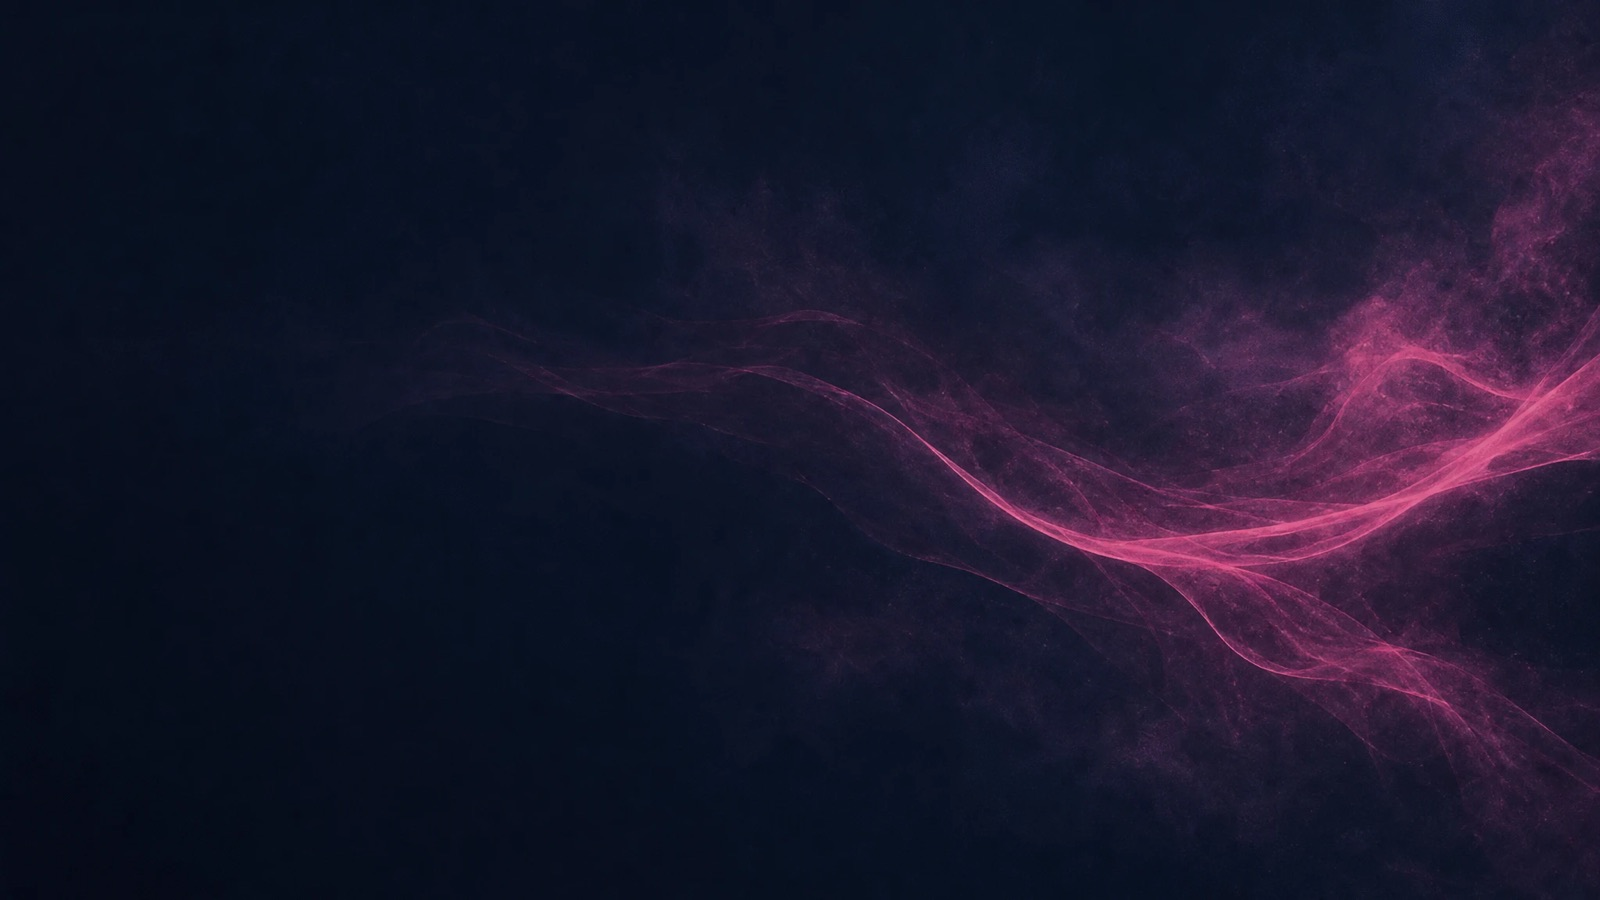
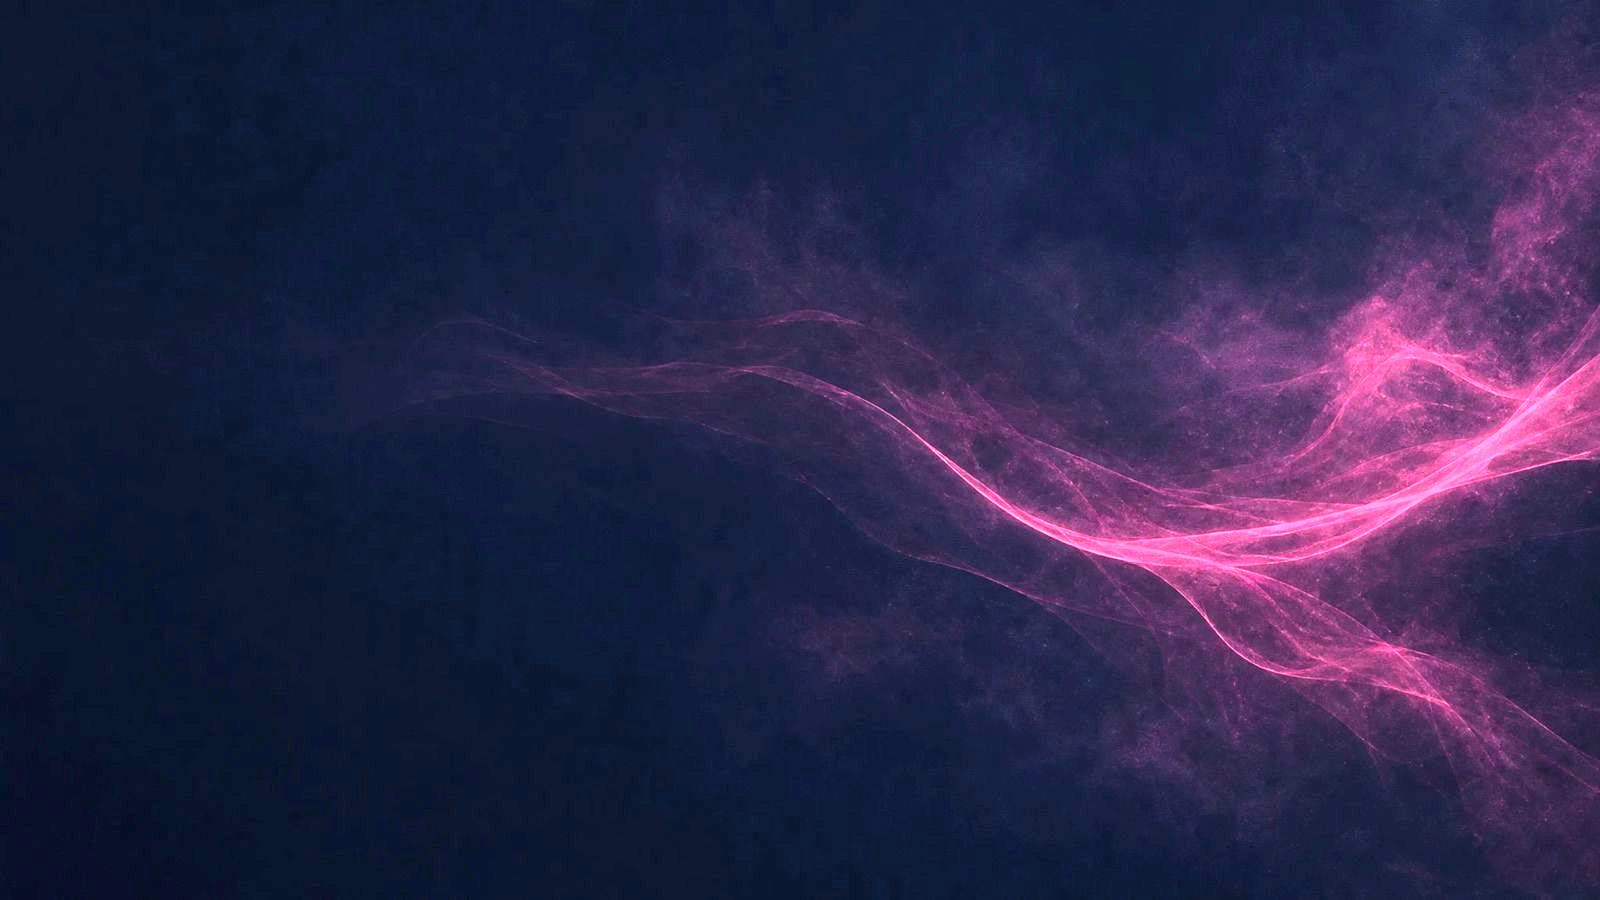
fix: pool backgrounds were invisible — move the plates into the scene
Every pool still looked like the same starry void. Two causes, both mine.

The plates were mounted as a DOM layer behind a transparent canvas, which
cannot work here: the post-processing chain writes opaque alpha, so the
canvas painted flat black over them regardless of alpha: true. Confirmed by
hiding the canvas, at which point the plate appeared. They are now quads
inside the scene at PLATE_Z, cross-faded against each other, where there is
no compositing question at all. Depth testing stays on — a full-frame quad
with it off would paint over opaque geometry in the transparent phase.

They were also generated far too dark to see: 17-34 mean luminance on their
open side against a page ground of ~6, and then a scrim on top of that. The
set is now normalised so all six land at ~57 mean, measured per plate rather
than eyeballed, baked into the files so the scene stays uniform. Plate
strength sits at PLATE_OPACITY 0.8, and the scrim only covers the copy side.

diff --git a/src/main.js b/src/main.js
@@ -22,22 +22,14 @@ const FOCUS_SCALE = 2.1; // how far the board zooms when a pool is opened
  * Renderer, scene, camera
  * ------------------------------------------------------------------ */
 const canvas = document.getElementById('stage');
-// alpha, so the per-pool background plates behind the canvas show through. The
-// page itself carries the base colour, and the fog still fades to it.
-const renderer = new THREE.WebGLRenderer({
-  canvas,
-  antialias: true,
-  alpha: true,
-  powerPreference: 'high-performance',
-});
-renderer.setClearAlpha(0);
+const renderer = new THREE.WebGLRenderer({ canvas, antialias: true, powerPreference: 'high-performance' });
 renderer.setPixelRatio(Math.min(devicePixelRatio, 2));
 renderer.toneMapping = THREE.ACESFilmicToneMapping;
 renderer.toneMappingExposure = 1.05;
 renderer.outputColorSpace = THREE.SRGBColorSpace;
 
 const scene = new THREE.Scene();
-scene.background = null;
+scene.background = new THREE.Color(PALETTE.bg);
 scene.fog = new THREE.Fog(PALETTE.bg, 26, 52);
 
 const camera = new THREE.PerspectiveCamera(42, 1, 0.1, 200);
@@ -175,16 +167,70 @@ const ringLine = new THREE.LineLoop(
 );
 hexGroup.add(ringLine);
 
-/* Per-pool background plates. Built up front so all six are decoded before
- * anyone swipes; a missing file just shows nothing. */
-const bgPlates = POOLS.map((pool) => {
-  const plate = document.createElement('div');
-  plate.className = 'pool-bg-plate';
-  plate.style.backgroundImage = `url("${import.meta.env.BASE_URL}media/backgrounds/${pool.id}.jpg")`;
-  document.getElementById('poolBg').append(plate);
-  return plate;
+/* Per-pool background plates.
+ *
+ * These live INSIDE the scene rather than as a DOM layer behind the canvas. The
+ * obvious approach — a transparent canvas over an <img> — does not work here:
+ * the post-processing chain writes opaque alpha, so the canvas paints over
+ * whatever sits behind it no matter what `alpha: true` promises. In the scene
+ * there is no compositing question at all.
+ *
+ * Two quads parked well behind everything, cross-faded against each other, so
+ * moving between pools dissolves rather than cuts. A missing texture just leaves
+ * the quad empty and the base colour shows, the same resolve-if-present
+ * behaviour as the videos. */
+const PLATE_Z = -30;
+// How strongly a plate reads. The full-strength plate was too bright behind the
+// copy, so it sits at 80%. Live on __demo for tuning at the venue.
+const PLATE_OPACITY = 0.8;
+const plateLoader = new THREE.TextureLoader();
+const plateTextures = POOLS.map((pool) => {
+  const tex = plateLoader.load(
+    `${import.meta.env.BASE_URL}media/backgrounds/${pool.id}.jpg`,
+    undefined,
+    undefined,
+    () => {} // missing file is not an error, it just stays blank
+  );
+  tex.colorSpace = THREE.SRGBColorSpace;
+  return tex;
 });
-const setPoolBg = (i) => bgPlates.forEach((p, k) => p.classList.toggle('on', k === i));
+
+const platePair = [0, 1].map(() => {
+  const mat = new THREE.MeshBasicMaterial({
+    transparent: true,
+    opacity: 0,
+    depthWrite: false,
+    // depthTest stays ON: this quad fills the frame, and with the test off it
+    // would paint over any opaque geometry drawn before it in the transparent
+    // phase. Parked at PLATE_Z it is behind everything anyway.
+    toneMapped: false,
+    fog: false,
+  });
+  const mesh = new THREE.Mesh(new THREE.PlaneGeometry(1, 1), mat);
+  mesh.position.z = PLATE_Z;
+  mesh.renderOrder = -10; // behind the starfield and the board
+  mesh.visible = false;
+  scene.add(mesh);
+  return mesh;
+});
+// Which of the pair is currently showing, and what each is fading toward.
+const plateState = { front: 0, target: [0, 0] };
+
+function setPoolBg(i) {
+  const tex = i >= 0 ? plateTextures[i] : null;
+  if (tex && platePair[plateState.front].material.map === tex) return;
+  if (!tex) {
+    plateState.target = [0, 0];
+    return;
+  }
+  // Bring the idle quad in with the new plate and retire the other.
+  const next = 1 - plateState.front;
+  platePair[next].material.map = tex;
+  platePair[next].material.needsUpdate = true;
+  platePair[next].visible = true;
+  plateState.front = next;
+  plateState.target = next === 0 ? [PLATE_OPACITY, 0] : [0, PLATE_OPACITY];
+}
 
 const vizCache = new Map();
 function vizFor(i) {
@@ -265,6 +311,12 @@ function applyTargets() {
   const half = Math.tan((camera.fov * Math.PI) / 360);
   const worldW = 2 * camera.position.z * half * camera.aspect;
   const worldH = 2 * camera.position.z * half;
+
+  // Background plates fill the frustum at their own depth, which is further from
+  // the camera than the board, so they need their own measure.
+  const plateD = camera.position.z - PLATE_Z;
+  const plateH = 2 * plateD * half;
+  platePair.forEach((mesh) => mesh.scale.set(plateH * camera.aspect, plateH, 1));
 
   // Centre of the space the copy column leaves free. The column is on the left,
   // so the board lives to the right of it.
@@ -1019,6 +1071,14 @@ function tick() {
   current.roll = damp(current.roll, target.roll, 4.2, dt);
   current.labelFlip = damp(current.labelFlip, target.labelFlip, 4.2, dt);
 
+  // Cross-fade the background plates. Held back with the board, so the intro and
+  // the stats page stay on the plain ground.
+  platePair.forEach((mesh, k) => {
+    const want = plateState.target[k] * (state.selected < 0 ? 0 : 1) * boardIn;
+    mesh.material.opacity = damp(mesh.material.opacity, want, 2.6, dt);
+    mesh.visible = mesh.material.opacity > 0.004;
+  });
+
   world.position.set(current.x, current.y, 0);
   world.scale.setScalar(current.scale);
   world.rotation.set(current.tiltX + Math.sin(t * 0.21) * 0.02, current.tiltY + current.spin, current.roll);
@@ -1170,6 +1230,7 @@ window.__demo = {
   stopTour,
   tour,
   TOUR_HOLD,
+  platePair,
   select,
   deselect,
   current,

diff --git a/src/style.css b/src/style.css
@@ -1692,71 +1692,51 @@ body.warp-open .autoplay {
   white-space: nowrap;
 }
 
-/* ---------- per-pool background plates ----------
-   One dark atmospheric plate per value pool, sitting behind the WebGL canvas
-   and cross-fading as visitors move between pools, so each pool has its own
-   sense of place instead of all six sharing one black void.
-
-   The renderer clears transparent for this (see main.js). The scrim over the
-   top is doing real work: the plates are deliberately dark, but the copy column
-   still needs a guaranteed floor of contrast whatever the generated image does,
-   so it stays heaviest on the left where the words are. Missing files simply
-   show nothing, the same resolve-if-present behaviour as the videos. */
-.pool-bg {
-  position: fixed;
-  inset: 0;
-  z-index: 0;
-  background: var(--bg);
-  overflow: hidden;
-}
+/* ---------- per-pool background scrim ----------
+   The plates themselves are quads inside the 3D scene (see main.js — a
+   transparent canvas over a DOM image does not survive the post-processing
+   chain). What is left here is the scrim over the top, and it is doing real
+   work: it guarantees a contrast floor for the copy whatever the plate behind it
+   does, heaviest on the left in landscape and rolling to the bottom in portrait
+   where the copy becomes a sheet. If a plate ever fights the words, lift this
+   rather than dimming the plate. */
 #stage {
   position: fixed;
   top: 0;
   left: 0;
   z-index: 1;
 }
-.pool-bg-plate {
-  position: absolute;
+.pool-bg {
+  position: fixed;
   inset: 0;
-  background-size: cover;
-  background-position: center;
-  opacity: 0;
-  transform: scale(1.04);
-  transition:
-    opacity 1.1s ease,
-    transform 8s ease-out;
-  will-change: opacity;
-}
-.pool-bg-plate.on {
-  opacity: 0.95;
-  transform: scale(1);
-}
-/* Contrast floor for the copy column, heaviest on the left. */
-.pool-bg::after {
-  content: "";
-  position: absolute;
-  inset: 0;
+  z-index: 2;
+  pointer-events: none;
   background:
     linear-gradient(
       100deg,
-      rgba(4, 6, 14, 0.93) 0%,
-      rgba(4, 6, 14, 0.78) 30%,
-      rgba(4, 6, 14, 0.24) 58%,
-      rgba(4, 6, 14, 0.34) 100%
+      rgba(4, 6, 14, 0.82) 0%,
+      rgba(4, 6, 14, 0.58) 28%,
+      rgba(4, 6, 14, 0) 52%,
+      rgba(4, 6, 14, 0) 100%
     ),
-    radial-gradient(130% 95% at 66% 52%, rgba(4, 6, 14, 0) 0%, rgba(4, 6, 14, 0.34) 84%);
+    radial-gradient(130% 95% at 66% 52%, rgba(4, 6, 14, 0) 0%, rgba(4, 6, 14, 0.18) 88%);
+  opacity: 0;
+  transition: opacity 0.7s ease;
 }
-/* Portrait puts the copy in a bottom sheet, so the scrim rolls with it. */
+/* Only needed once a pool is open — that is the only time a plate is up. */
+body.panel-open .pool-bg {
+  opacity: 1;
+}
 @media (max-aspect-ratio: 1/1) {
-  .pool-bg::after {
+  .pool-bg {
     background:
       linear-gradient(
         to top,
-        rgba(4, 6, 14, 0.95) 0%,
-        rgba(4, 6, 14, 0.8) 38%,
-        rgba(4, 6, 14, 0.4) 68%,
-        rgba(4, 6, 14, 0.6) 100%
+        rgba(4, 6, 14, 0.88) 0%,
+        rgba(4, 6, 14, 0.62) 34%,
+        rgba(4, 6, 14, 0) 62%,
+        rgba(4, 6, 14, 0) 100%
       ),
-      radial-gradient(120% 60% at 50% 34%, rgba(4, 6, 14, 0) 0%, rgba(4, 6, 14, 0.5) 84%);
+      radial-gradient(120% 60% at 50% 32%, rgba(4, 6, 14, 0) 0%, rgba(4, 6, 14, 0.2) 88%);
   }
 }

diff --git a/README.md b/README.md
@@ -169,19 +169,36 @@ so each pool has a sense of place instead of all six sharing one black void. The
 framework overview and the intro carry none — the board stays neutral, and the
 place arrives with the pool.
 
-For this the renderer clears **transparent** (`alpha: true`, `scene.background =
-null`) and the page itself carries the base colour. The scrim over the plates in
-`.pool-bg::after` is doing real work: it guarantees a contrast floor for the copy
-whatever the image behind it does, so it stays heaviest on the left in landscape
-and rolls to the bottom in portrait where the copy becomes a sheet. If a plate
-ever fights the words, lift that scrim rather than dimming the plate.
+The plates are **quads inside the 3D scene**, parked at `PLATE_Z` behind
+everything, cross-fading against each other. The obvious approach — a DOM image
+behind a transparent canvas — does not work here and it is worth knowing why: the
+post-processing chain (bloom, output pass) writes **opaque alpha**, so the canvas
+paints over whatever sits behind it no matter what `alpha: true` promises. The
+symptom is that every pool looks like the same starry void. In the scene there is
+no compositing question at all.
 
-Missing files simply show nothing, the same resolve-if-present behaviour as the
-videos, so the demo never breaks on a bad filename.
+Two knobs:
 
-**These are placeholder**, generated with `openai/gpt-image-2` — abstract, very
-dark, one accent hue each, with the left half deliberately empty. 1600x900 JPEG,
-800 KB for all six.
+- `PLATE_OPACITY` in [src/main.js](src/main.js) — how strongly a plate reads,
+  currently `0.8`. Exposed as `__demo.platePair` for tuning at the venue.
+- `.pool-bg` in [src/style.css](src/style.css) — the scrim over the top, which
+  guarantees a contrast floor for the copy whatever the plate does. Heaviest on
+  the left in landscape, rolling to the bottom in portrait where the copy becomes
+  a sheet. **If a plate ever fights the words, lift the scrim rather than dimming
+  the plate.**
+
+A missing texture leaves the quad blank and the base colour shows, the same
+resolve-if-present behaviour as the videos, so a bad filename never breaks it.
+
+**These are placeholder**, generated with `openai/gpt-image-2` — abstract, one
+accent hue each, with the left half deliberately empty for the copy.
+
+They were generated far too dark to see (17-34 mean luminance on their open side,
+against a page ground of ~6) and then normalised: each plate is brightness-scaled
+so all six land at the same ~57 mean, measured rather than eyeballed, so no pool
+reads noticeably stronger than its neighbours. That correction is **baked into
+the files**, which is why they should be re-measured if any one of them is
+replaced. 1600x900 JPEG, ~580 KB for all six.
 
 They are **stills, not video**. Six looping background clips would add tens of
 megabytes on top of the intro, the warp and the six pool films, on a bundle that

diff --git a/public/media/README.md b/public/media/README.md
@@ -85,3 +85,9 @@ left half kept empty for the copy column. 1600x900 JPEG, ~130 KB each.
 
 Placeholder like the rest: generated, not shot. They are the least urgent thing
 here to replace — they are meant to be barely noticed.
+
+If you replace one, **check it against the others for brightness**. The set is
+normalised so all six read at the same strength (~57 mean luminance over the open
+right side), and that correction is baked into the files rather than applied at
+runtime. A raw generated plate dropped in next to these will look either invisible
+or far too hot.
